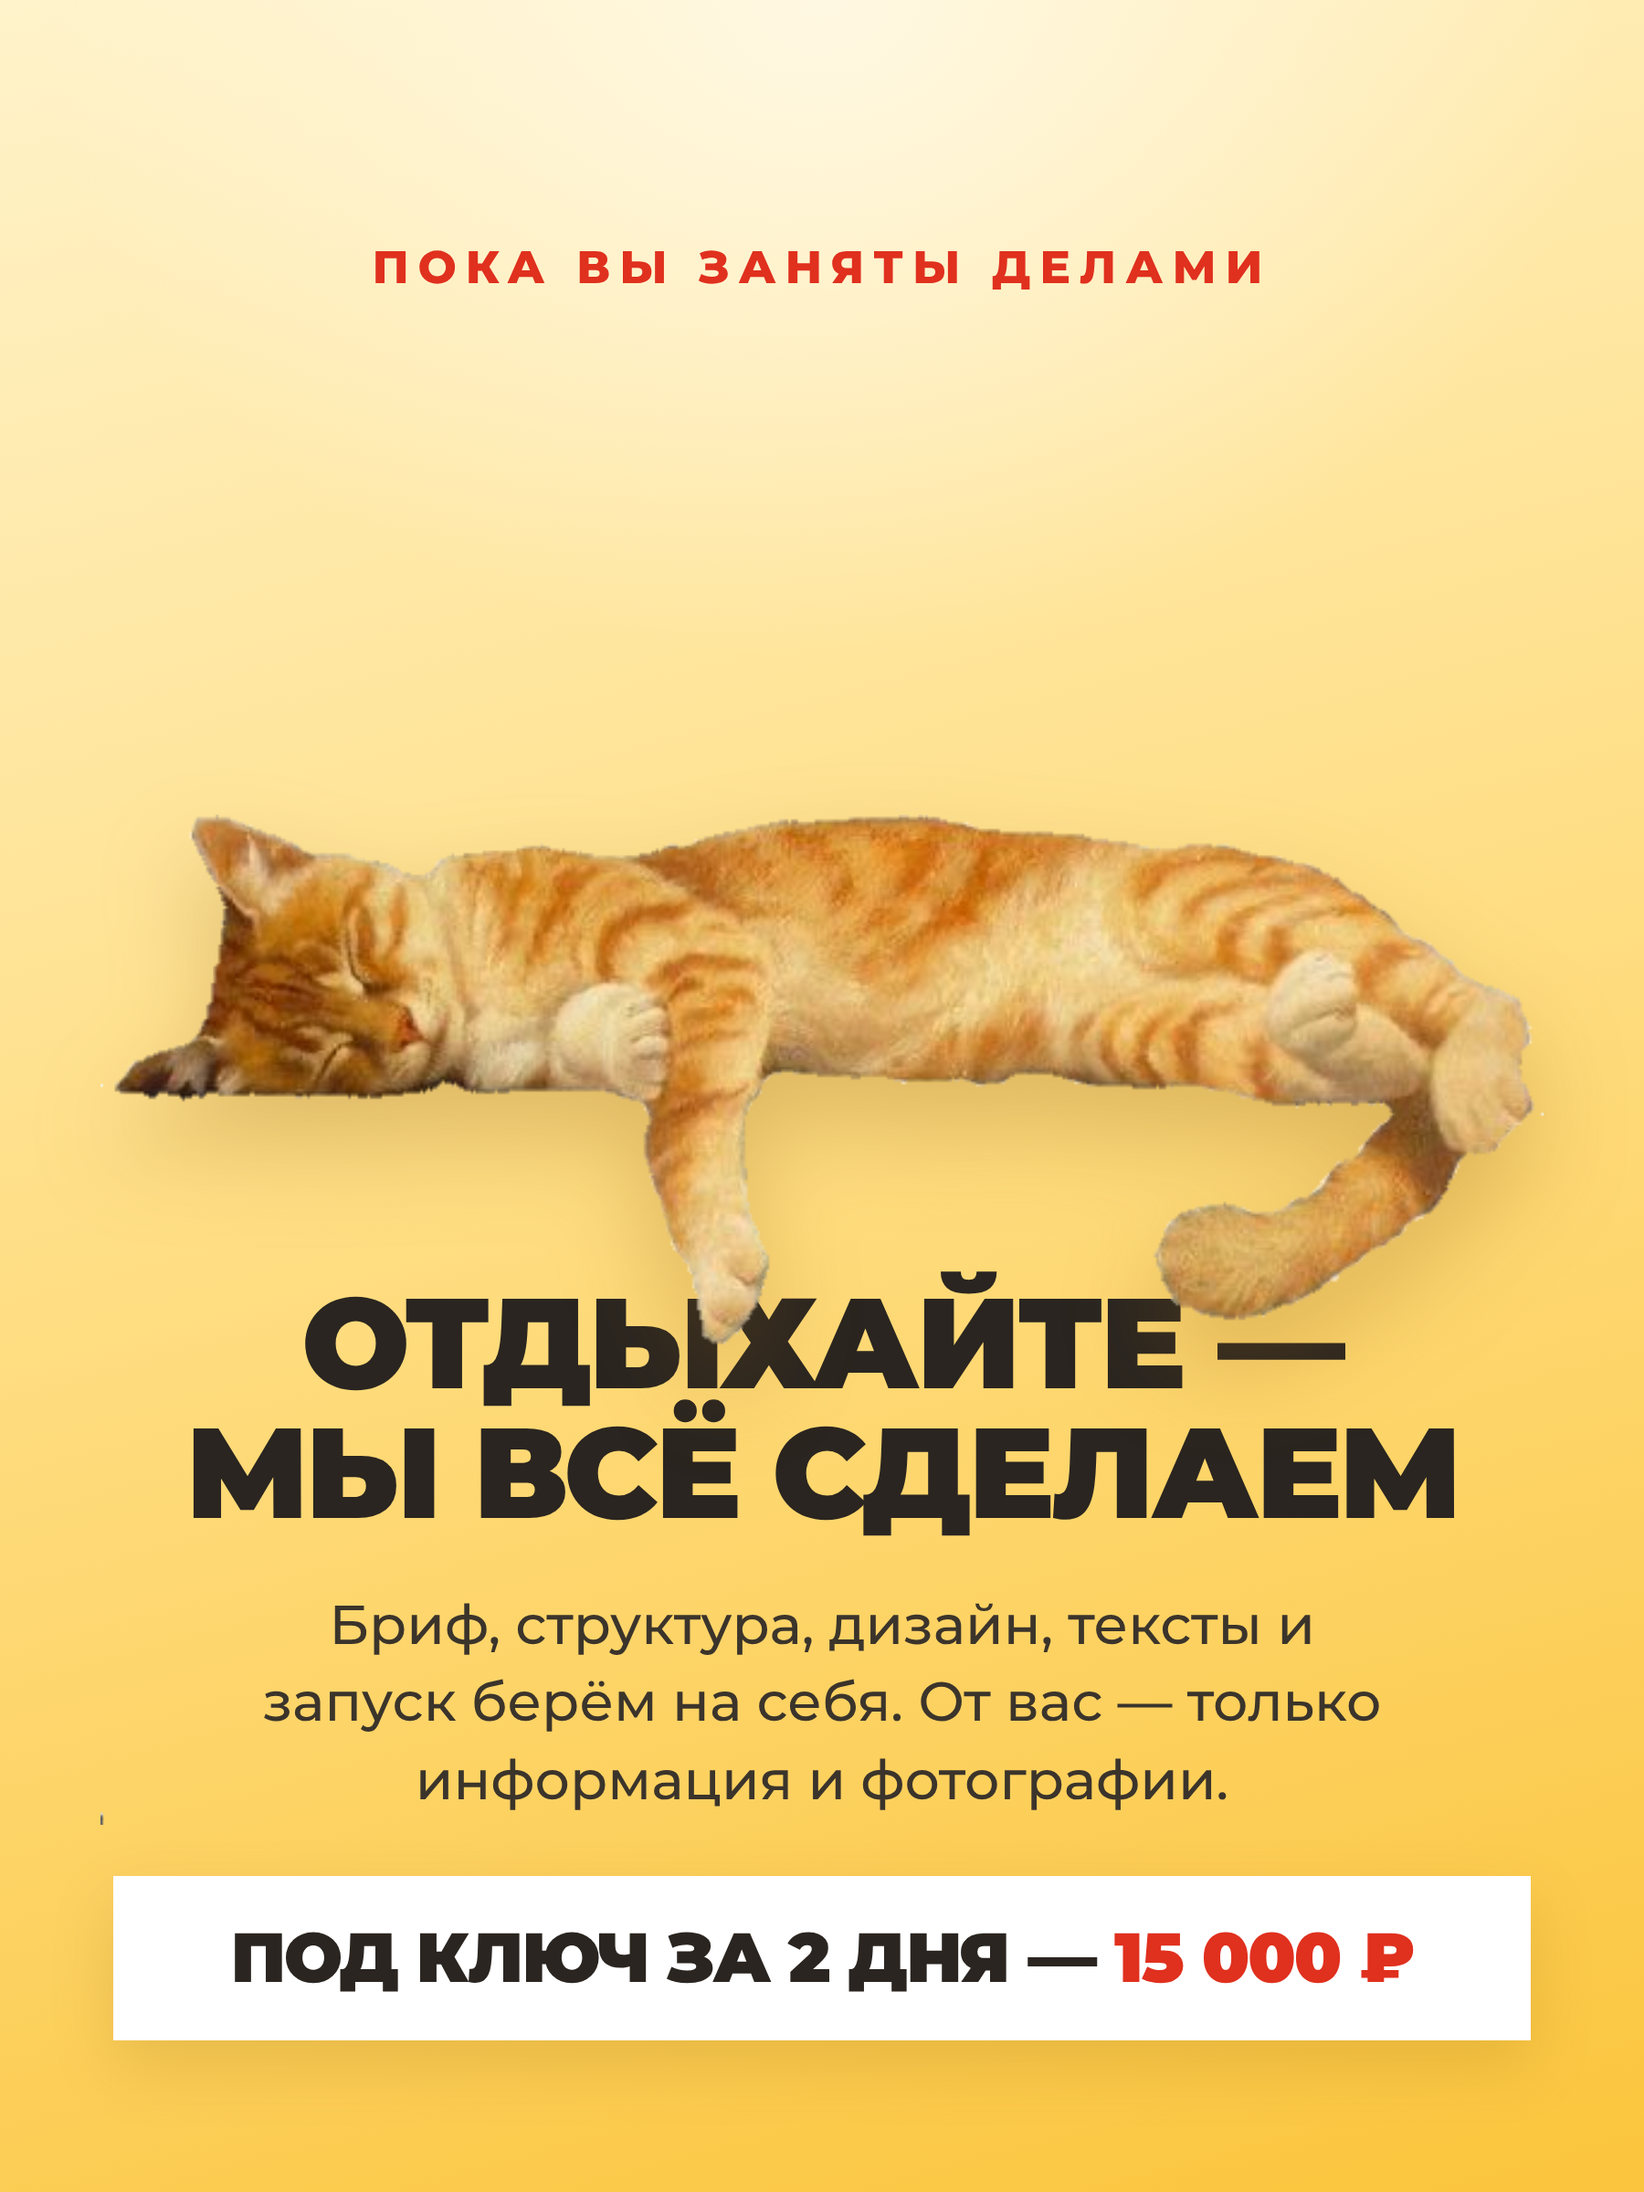
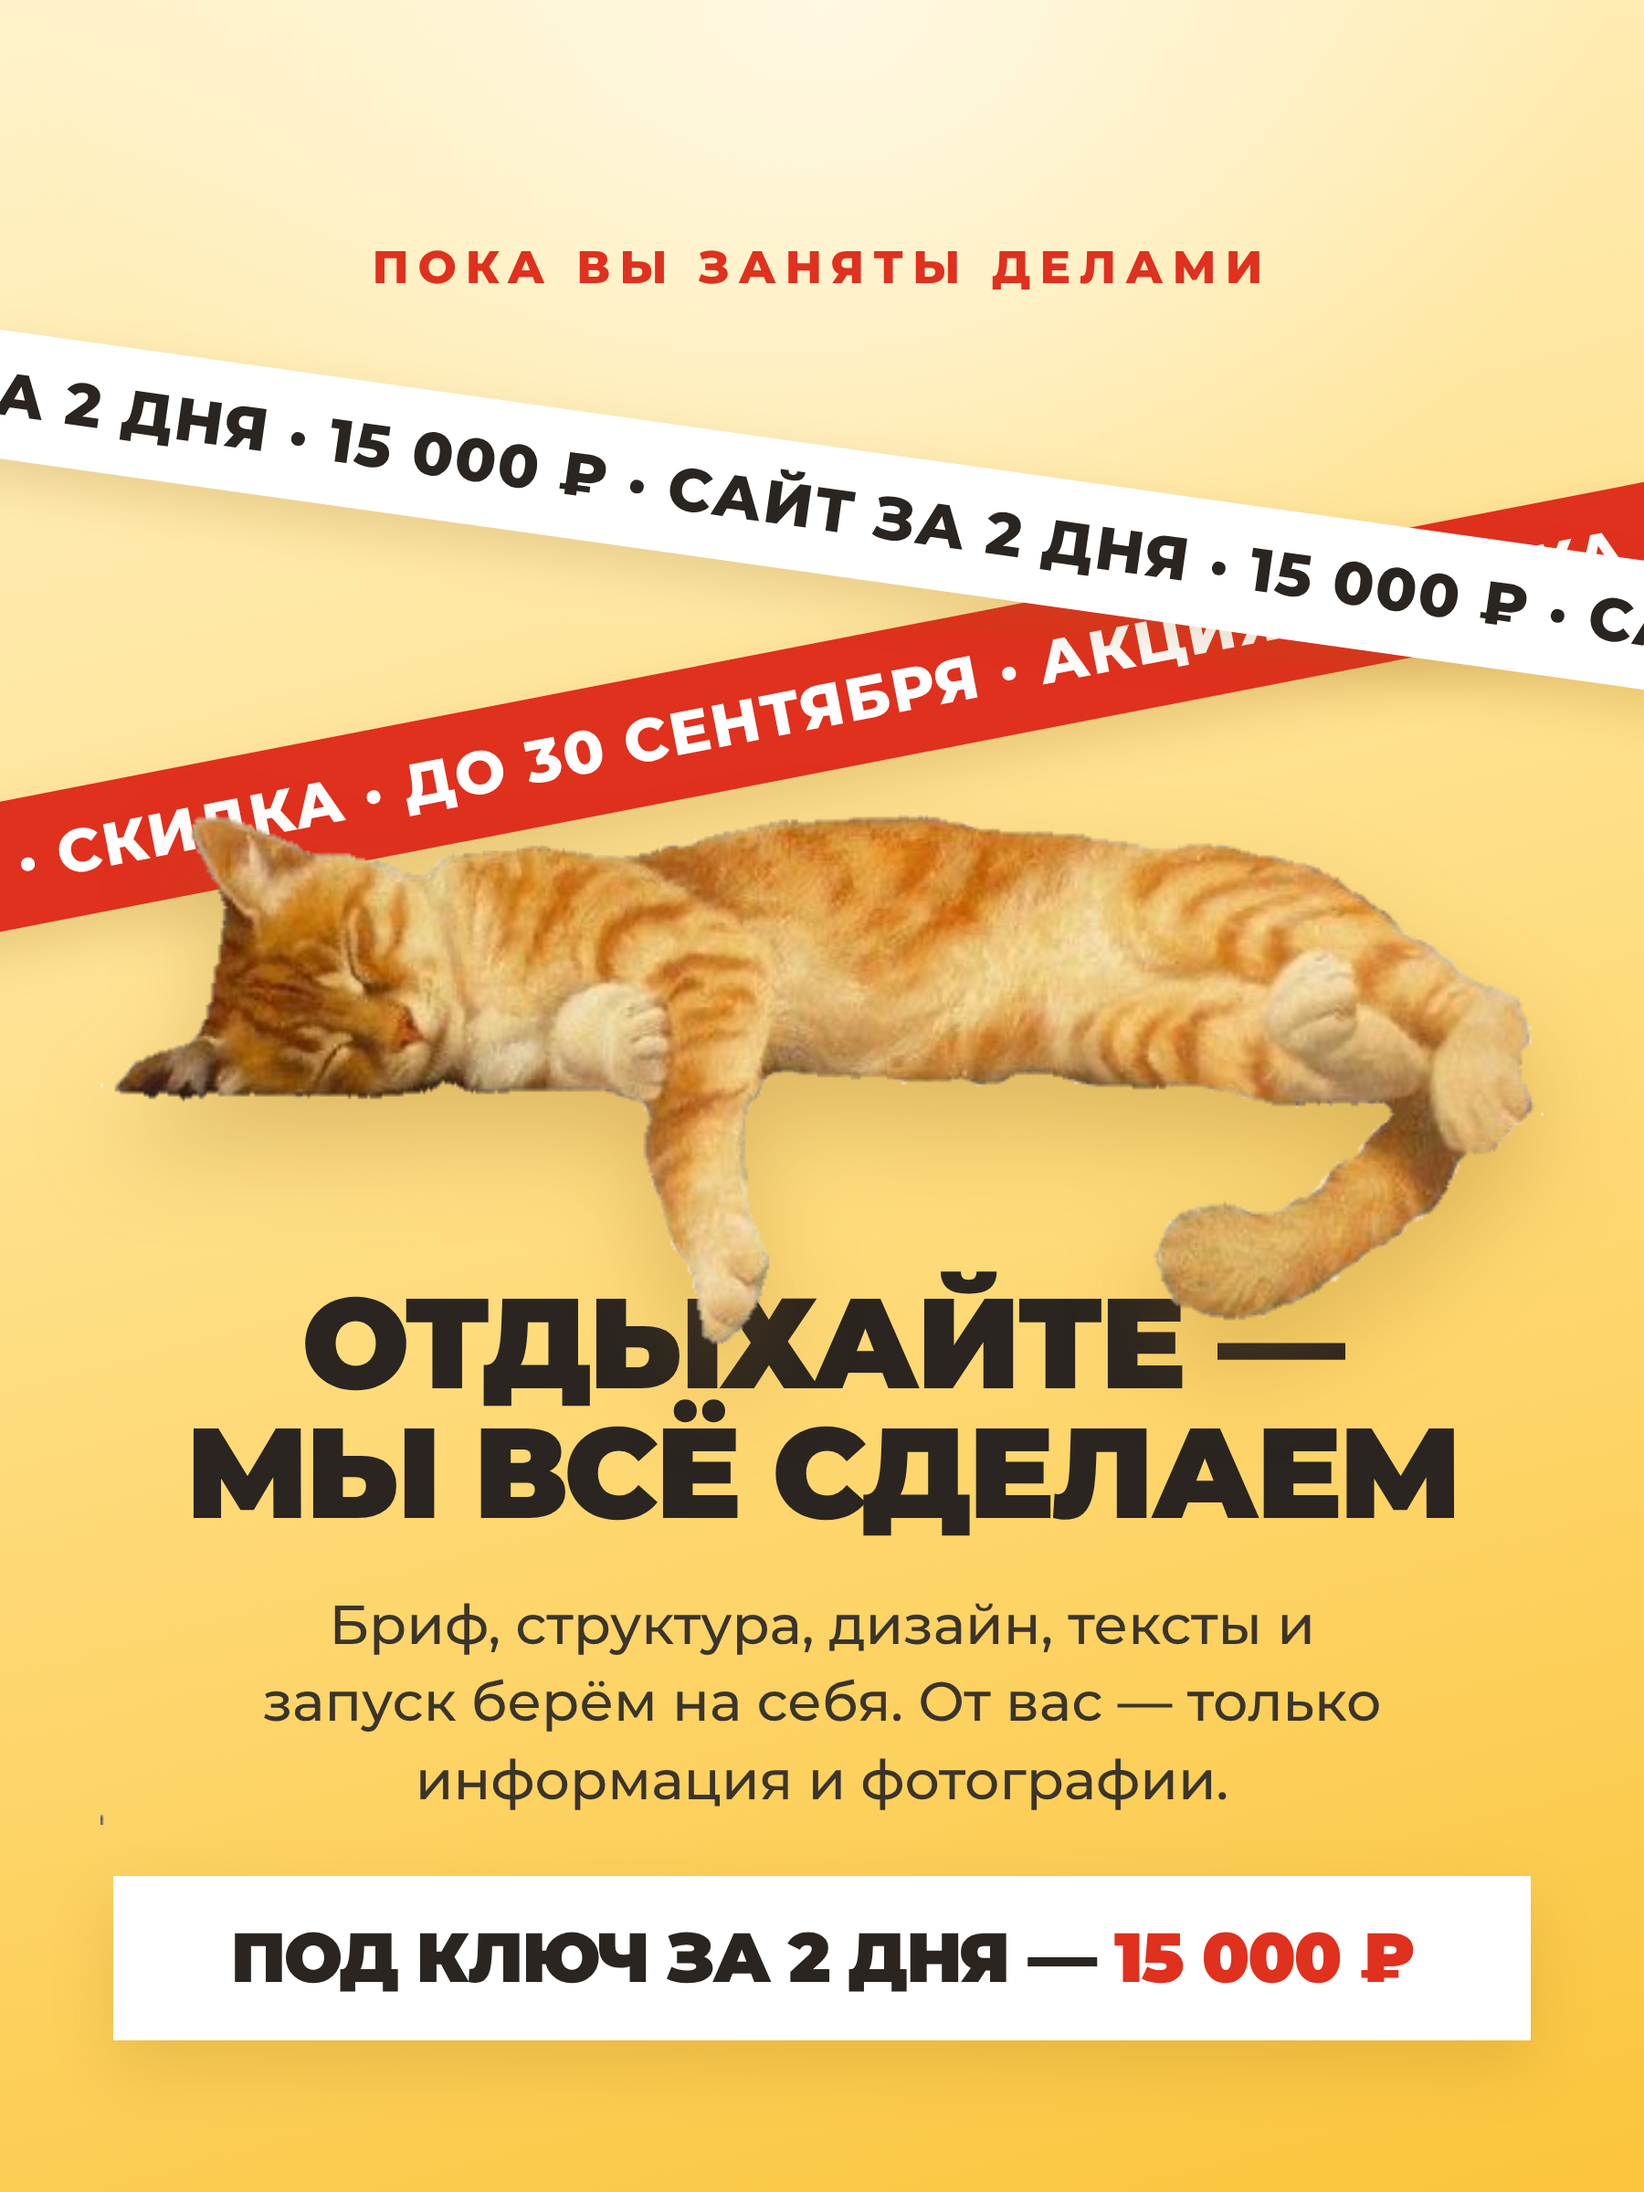
Run sale ribbons across the cat slide
Two crossing diagonal ribbons repeat the offer and the deadline behind
the cat, the way a promo banner stripes its subject. Also fixes the dark
theme on the object and shop slides, which kept the light background
while the type turned pale.

Claude-Session: https://claude.ai/code/session_017LcbuXHN7h3FiT7QLFYxQe

Changed region(s): [[0.0, 0.125, 1.0, 0.4375]]

diff --git a/avito/styles-lux.css b/avito/styles-lux.css
@@ -138,6 +138,27 @@ p.lead { font-weight: 500; color: #C7BCA5; }
 .sk.btn { background: linear-gradient(135deg, #E2C378, #A98418); }
 .thumbs div { background: linear-gradient(140deg, #4A3F22, #2A2415); }
 
+/* слайды с объёмными объектами — тёмный фон вместо жёлтого */
+.poster.warm {
+  background:
+    radial-gradient(85% 55% at 50% 0%, rgba(232,200,126,.14) 0%, rgba(232,200,126,0) 60%),
+    linear-gradient(165deg, #16130F 0%, #0B0A09 50%, #000 100%);
+}
+.price-line { color: #BCB19A; }
+.price-line b { color: var(--gold); }
+
+/* слайд про ниши остаётся светлым — фиксируем тёмный текст */
+.poster.shop h1 { color: #23211D; }
+.poster.shop p { color: #4A463D; }
+.poster.shop .eyebrow { color: #B0421F; }
+
+/* ленты акции */
+.ribbon.r1 { background: #E0301E; color: #fff; }
+.ribbon.r2 {
+  background: linear-gradient(120deg, #F6E6BC, #D9B75C 60%, #A98418);
+  color: #17130A;
+}
+
 /* обложка */
 .sale { background: #E0301E; color: #fff; box-shadow: 0 10px 26px rgba(224,48,30,.4); }
 

diff --git a/avito/styles.css b/avito/styles.css
@@ -523,3 +523,31 @@ p.small { font-size: 26px; line-height: 1.45; }
   color: var(--red);
   text-transform: uppercase;
 }
+
+/* --- диагональные ленты акции ------------------------------------------- */
+.ribbon {
+  position: absolute;
+  left: -16%;
+  width: 132%;
+  z-index: 1;
+  padding: 15px 0;
+  font-size: 33px;
+  font-weight: 800;
+  letter-spacing: 1px;
+  white-space: nowrap;
+  text-align: center;
+  text-transform: uppercase;
+  box-shadow: 0 12px 26px rgba(150,100,20,.2);
+}
+.ribbon.r1 {
+  top: 352px;
+  transform: rotate(-11deg);
+  background: var(--red);
+  color: #fff;
+}
+.ribbon.r2 {
+  top: 244px;
+  transform: rotate(8deg);
+  background: #fff;
+  color: var(--ink);
+}

diff --git a/avito/posters.html b/avito/posters.html
@@ -416,6 +416,9 @@
     <div class="eyebrow">Пока вы заняты делами</div>
   </div>
 
+  <div class="ribbon r1">АКЦИЯ&nbsp;· СКИДКА&nbsp;· ДО 30 СЕНТЯБРЯ&nbsp;· АКЦИЯ&nbsp;· СКИДКА&nbsp;· ДО 30 СЕНТЯБРЯ&nbsp;· АКЦИЯ&nbsp;·</div>
+  <div class="ribbon r2">САЙТ ЗА 2 ДНЯ&nbsp;· 15 000 ₽&nbsp;· САЙТ ЗА 2 ДНЯ&nbsp;· 15 000 ₽&nbsp;· САЙТ ЗА 2 ДНЯ&nbsp;· 15 000 ₽&nbsp;·</div>
+
   <img class="cat" src="assets/cat.png" alt="">
 
   <div class="over-text" style="top:700px">
